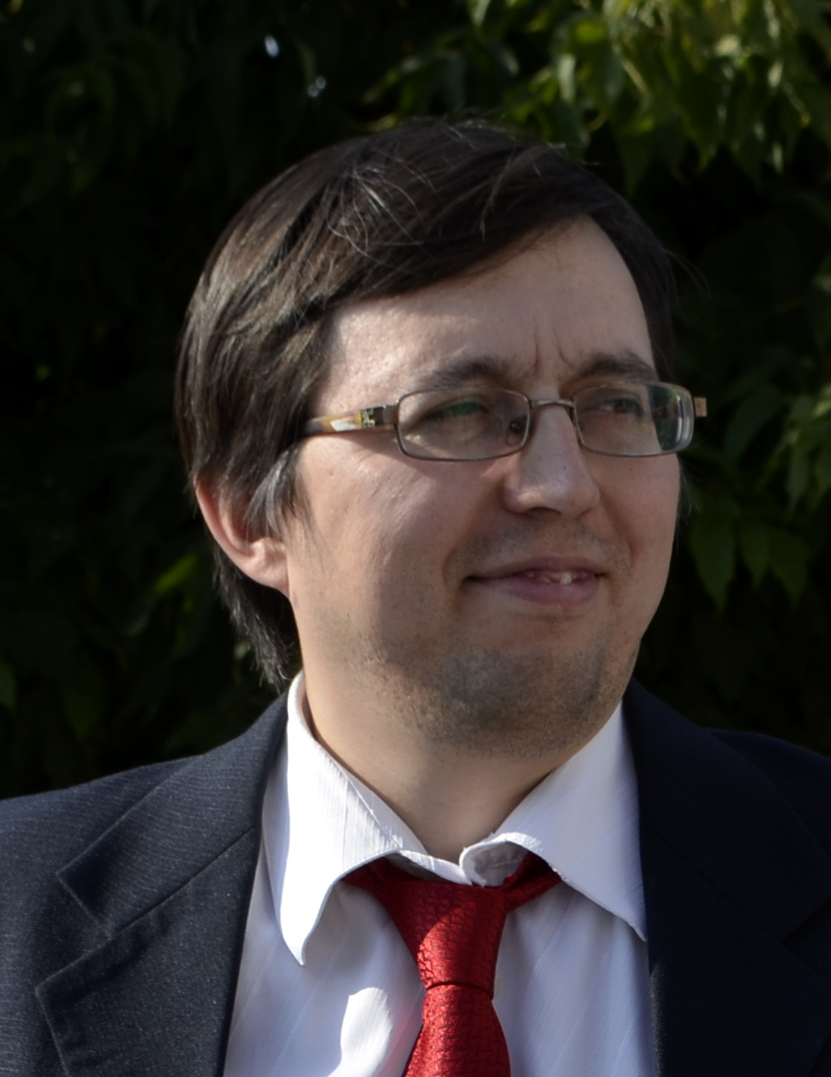
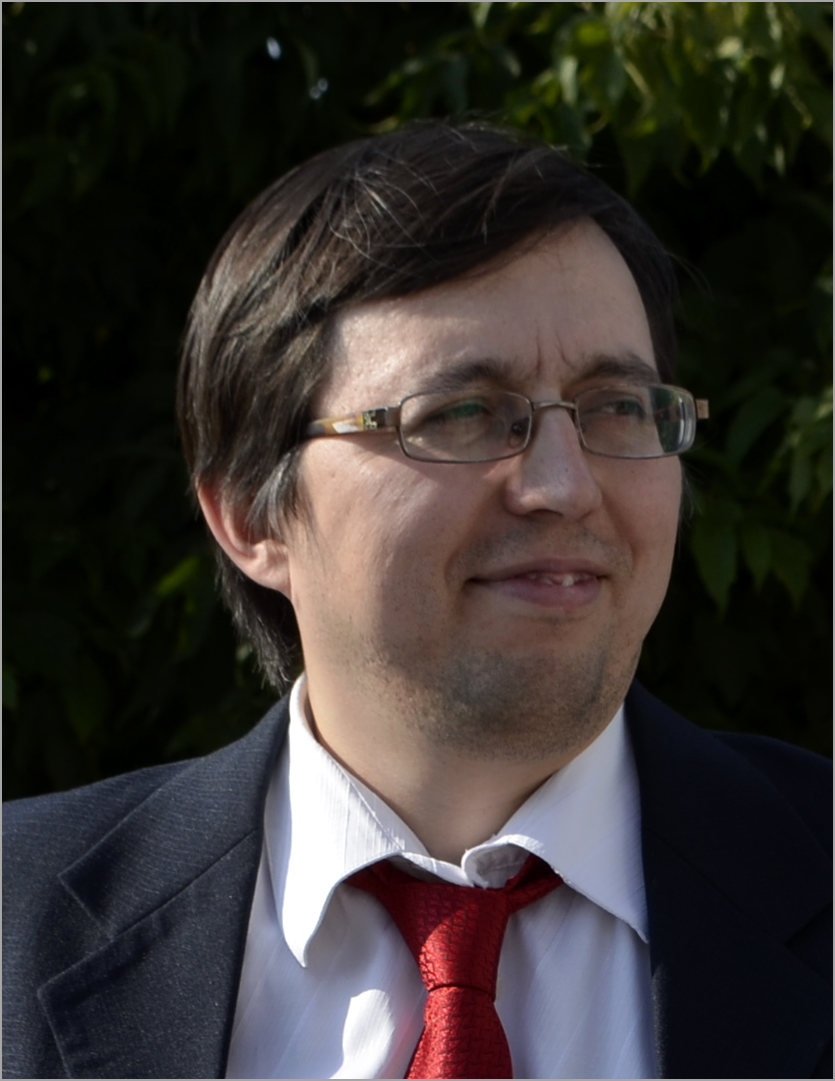
portfolio. add info

diff --git a/docs/index.md b/docs/index.md
@@ -33,13 +33,22 @@
 
 ## Примеры работ
 
+1. Пример пользовательской документации в парадигме Docs as Code: [Руководство администратора. Веб-интерфейс](https://sharxbase.docs.sharxdc.ru/6.3/admin_guide_web/index.html). Исходные документы в формате Markdown, публикация с помощью MkDocs, используется шаблонизатор Ninja.
 
+1. Пример документации API: [Описание API DOUMENTAT.IO](https://dennnis-2020.github.io/mkdocs/). Спецификация API выполнена в формате YAML по версии OPENAPI 3.0.0. Публикация с помощью MkDocs.
 
+1. Техническое описание (Datasheet) в формате [PDF](ds.pdf).
 
 ## Дипломы и сертификаты
 
+![Диплом о высшем образовании](dvs.png)  
 
-![Ввод API-ключа](a2.jpg)  
-Рисунок 2 — Ввод API-ключа.
+![Документация API](cert-2026.jpg)  
 
+![Менеджер проектов в IT](cert-2022.png) 
 
+![Аналитик в IT](cert-2021.png) 
+
+![Основы программирования на Python](cert-2020.png) 
+
+![Управление, основанное на данных — Chief Data Officer в органах власти](u-2019.png) 